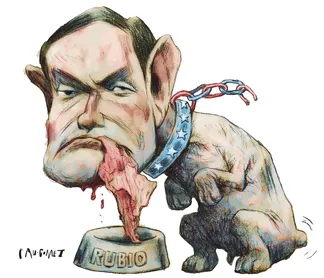
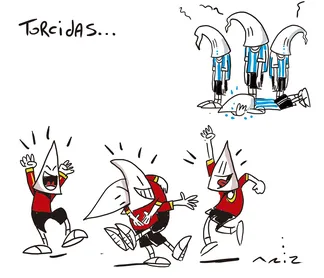
Melhorar a entrega de imagens versão mobile

diff --git a/index-mobile.html b/index-mobile.html
@@ -289,7 +289,7 @@
                   <h2>Coral Eterna Juventude encerra programação natalina com apresentação</h2>
                   <p>O coral preparou um repertório natalino especial para o público</p>
                   <figure>
-                     <img src="https://cdn.atarde.com.br/img/Chamada-Home/1390000/764x552/pms-acusados-de-matar-jovens-durante-acao-na-gambo0139588900202607201450/scaleDownOutsideFillBackground-1.webp?fallback=https%3A%2F%2Fcdn.atarde.com.br%2Fimg%2FChamada-Home%2F1390000%2Fpms-acusados-de-matar-jovens-durante-acao-na-gambo0139588900202607201450.jpg%3Fxid%3D7146763&xid=7146763" alt="imagem noticia" fetchpriority=high>
+                     <img src="atr_home_imagens/imagens/dino.webp" alt="imagem noticia" fetchpriority=high>
                      <span><img src="atr_home_imagens/outros/play-1001-svgrepo-com.svg" alt="play"></span>
                   </figure>
                </a>
@@ -377,7 +377,7 @@
                   </a>
                   <a href="#">
                      <figure>
-                        <img src="https://cdn.atarde.com.br/img/Chamada-Home/1390000/130x130/anitta-negocia-cargo-de-rainha-de-bateria-em-escol0139590000202607201537/scaleDownOutsideFillBackground-1.webp?fallback=https%3A%2F%2Fcdn.atarde.com.br%2Fimg%2FChamada-Home%2F1390000%2Fanitta-negocia-cargo-de-rainha-de-bateria-em-escol0139590000202607201537.jpg%3Fxid%3D7147013&xid=7147013" alt="imagem noticia">
+                        <img src="atr_home_imagens/imagens/ultimas-noticias.webp" alt="imagem noticia">
                      </figure>
                      <div class="descricao-ultimas">
                         <span>Zona pet</span>
@@ -563,7 +563,7 @@
                <span>Cau Gomez</span>
                <h3>Charge do dia 18 de janeiro de 2026</h3>
                <figure>
-                  <img src="https://cdn.atarde.com.br/img/Artigo-Destaque/1390000/324x278/charge-do-dia-200720260139580600202607191950/scaleDownOutsideFillBackground-1.webp?fallback=https%3A%2F%2Fcdn.atarde.com.br%2Fimg%2FArtigo-Destaque%2F1390000%2Fcharge-do-dia-200720260139580600202607191950.jpg%3Fxid%3D7146093&xid=7146093" alt="imagem poster">
+                  <img src="atr_home_imagens/imagens/charge.webp" alt="imagem poster">
                </figure>
             </a>
             <div class="linha-divisora remover-linha"></div>
@@ -577,7 +577,7 @@
                      <span>Campeonato Bahiano 2026</span>
                      <h3>Vitória x Bahia de Feira: onde assistir, prováveis escalações e mais</h3>
                      <figure>
-                        <img src="https://cdn.atarde.com.br/img/Editoria-Destaque/1390000/500x286/a-passeio-veja-selecao-de-convocados-que-nao-jogar0139592800202607201818/scaleDownOutsideFillBackground-1.webp?fallback=https%3A%2F%2Fcdn.atarde.com.br%2Fimg%2FEditoria-Destaque%2F1390000%2Fa-passeio-veja-selecao-de-convocados-que-nao-jogar0139592800202607201818.webp%3Fxid%3D7147422&xid=7147422" alt="foto materia">
+                        <img src="atr_home_imagens/imagens/jogo-1.webp" alt="foto materia">
                      </figure>
                   </div>
                </a>
@@ -601,7 +601,7 @@
                      <span>O dono da 8</span>
                      <h3>Bahia anuncia novo camisa 8 na temporada após saída de Cauly</h3>
                      <figure>
-                        <img src="https://cdn.atarde.com.br/img/Chamada-Home/1390000/500x286/bahia-busca-primeira-vitoria-sobre-o-atletico-mg-n0139589400202607201501/scaleDownOutsideFillBackground-1.webp?fallback=https%3A%2F%2Fcdn.atarde.com.br%2Fimg%2FChamada-Home%2F1390000%2Fbahia-busca-primeira-vitoria-sobre-o-atletico-mg-n0139589400202607201501.jpg%3Fxid%3D7146823&xid=7146823" alt="foto materia">
+                        <img src="atr_home_imagens/imagens/jogo-2.webp" alt="foto materia">
                      </figure>
                   </div>
                </a>
@@ -625,7 +625,7 @@
                      <span>Mercado da Bola</span>
                      <h3>Vitória fecha contratação do zagueiro Cacá junto ao Corinthians; saiba detalhess</h3>
                      <figure>
-                        <img src="https://cdn.atarde.com.br/img/Editoria-Destaque/1390000/500x286/vitoria-ganha-reforco-para-enfrentar-o-botafogo-no0139591200202607201642/scaleDownOutsideFillBackground-1.webp?fallback=https%3A%2F%2Fcdn.atarde.com.br%2Fimg%2FEditoria-Destaque%2F1390000%2Fvitoria-ganha-reforco-para-enfrentar-o-botafogo-no0139591200202607201642.jpg%3Fxid%3D7147176&xid=7147176" alt="foto materia">
+                        <img src="atr_home_imagens/imagens/jogo-3.webp" alt="foto materia">
                         <span><img src="atr_home_imagens/outros/galeria.svg" alt="icone galeria"></span>
                      </figure>
                   </div>
@@ -654,7 +654,7 @@
                                         <h3>1 bilhão: Núcleo Digital do Grupo A TARDE bate recorde de views</h3>
                                         <figure>
                                             <img
-                                                src="https://cdn.atarde.com.br/img/Editoria-Destaque/1390000/273x156/caos-na-saude-de-porto-seguro-explode-apos-escanda0139559400202607171045/scaleDownOutsideFillBackground-1.webp?fallback=https%3A%2F%2Fcdn.atarde.com.br%2Fimg%2FEditoria-Destaque%2F1390000%2Fcaos-na-saude-de-porto-seguro-explode-apos-escanda0139559400202607171045.jpg%3Fxid%3D7145704&xid=7145704"
+                                                src="atr_home_imagens/imagens/atr-destaque-1.webp"
                                                 alt="foto materia"
                                             />
                                         </figure>
@@ -667,7 +667,7 @@
                                         <h3>113 anos de Grupo A TARDE: veículo se renova e conecta gerações</h3>
                                         <figure>
                                             <img
-                                                src="https://cdn.atarde.com.br/img/Editoria-Destaque/1390000/273x156/disputa-de-2022-mantem-legado-sobre-eleicoes-e-mol0139541700202607152003/scaleDownOutsideFillBackground-1.webp?fallback=https%3A%2F%2Fcdn.atarde.com.br%2Fimg%2FEditoria-Destaque%2F1390000%2Fdisputa-de-2022-mantem-legado-sobre-eleicoes-e-mol0139541700202607152003.png%3Fxid%3D7144963&xid=7144963"
+                                                src="atr_home_imagens/imagens/atr-destaque-2.webp"
                                                 alt="foto materia"
                                             />
                                         </figure>
@@ -680,7 +680,7 @@
                                         <h3>Grupo A TARDE inicia transmissão ao vivo do Carnaval com pé direito</h3>
                                         <figure>
                                             <img
-                                                src="https://cdn.atarde.com.br/img/Editoria-Destaque/1390000/273x156/copa-do-mundo-entenda-a-rivalidade-politica-por-tr0139517500202607132019/scaleDownOutsideFillBackground-1.webp?fallback=https%3A%2F%2Fcdn.atarde.com.br%2Fimg%2FEditoria-Destaque%2F1390000%2Fcopa-do-mundo-entenda-a-rivalidade-politica-por-tr0139517500202607132019.jpg%3Fxid%3D7140444&xid=7140444"
+                                                src="atr_home_imagens/imagens/atr-destaque-3.webp"
                                                 alt="foto materia"
                                             />
                                             <span
@@ -756,7 +756,7 @@
                      <span class="red-itens">Tradição</span>
                      <h3>Cortejo Afro e Alvorada reforçam cultura afro-brasileira no Carnaval</h3>
                      <figure>
-                        <img src="https://cdn.atarde.com.br/img/Editoria-Destaque/1370000/273x156/fim-do-financiamento-novo-modelo-transforma-alugue0137704600202601221552/scaleDownOutsideFillBackground-1.webp?fallback=https%3A%2F%2Fcdn.atarde.com.br%2Fimg%2FEditoria-Destaque%2F1370000%2Ffim-do-financiamento-novo-modelo-transforma-alugue0137704600202601221552.webp%3Fxid%3D7145476&xid=7145476" alt="foto materia">
+                        <img src="atr_home_imagens/imagens/bahia.webp" alt="foto materia">
                      </figure>
                   </div>
                </a>
@@ -779,7 +779,7 @@
                      <span class="blue-medium-itens">Concursos</span>
                      <h3>Universidade da Bahia abre concurso com salários de mais de R$ 8 mil</h3>
                      <figure>
-                        <img src="https://cdn.atarde.com.br/img/Editoria-Destaque/1380000/366x210/inss-inicia-pagamento-da-2-parcela-do-13-nesta-seg0138990500202605241803/scaleDownOutsideFillBackground-1.webp?fallback=https%3A%2F%2Fcdn.atarde.com.br%2Fimg%2FEditoria-Destaque%2F1380000%2Finss-inicia-pagamento-da-2-parcela-do-13-nesta-seg0138990500202605241803.webp%3Fxid%3D7146777&xid=7146777" alt="foto materia">
+                        <img src="atr_home_imagens/imagens/concursos.webp" alt="foto materia">
                      </figure>
                   </div>
                </a>
@@ -802,7 +802,7 @@
                      <span class="shiny-red-itens">Polícia</span>
                      <h3>Camarote de luxo interditado e influencer preso: saiba tudo sobre ...</h3>
                      <figure>
-                        <img src="https://cdn.atarde.com.br/img/Chamada-Home/1390000/366x210/pai-agride-filho-de-tres-anos-apos-a-crianca-urina0139593100202607201834/scaleDownOutsideFillBackground-1.webp?fallback=https%3A%2F%2Fcdn.atarde.com.br%2Fimg%2FChamada-Home%2F1390000%2Fpai-agride-filho-de-tres-anos-apos-a-crianca-urina0139593100202607201834.jpg%3Fxid%3D7147407&xid=7147407" alt="foto materia">
+                        <img src="atr_home_imagens/imagens/policia.webp" alt="foto materia">
                      </figure>
                   </div>
                </a>
@@ -831,7 +831,7 @@
                                         <h3>Michelle não deve fazer campanha para Flávio Bolsonaro</h3>
                                         <figure>
                                             <img
-                                                src="https://cdn.atarde.com.br/img/Chamada-Home/1390000/273x156/mbl-oficializa-candidatura-de-renan-santos-a-presi0139588600202607201431/scaleDownOutsideFillBackground-1.webp?fallback=https%3A%2F%2Fcdn.atarde.com.br%2Fimg%2FChamada-Home%2F1390000%2Fmbl-oficializa-candidatura-de-renan-santos-a-presi0139588600202607201431.jpg%3Fxid%3D7146717&xid=7146717"
+                                                src="atr_home_imagens/imagens/eleicoes.webp"
                                                 alt="imagem materia"
                                             />
                                         </figure>
